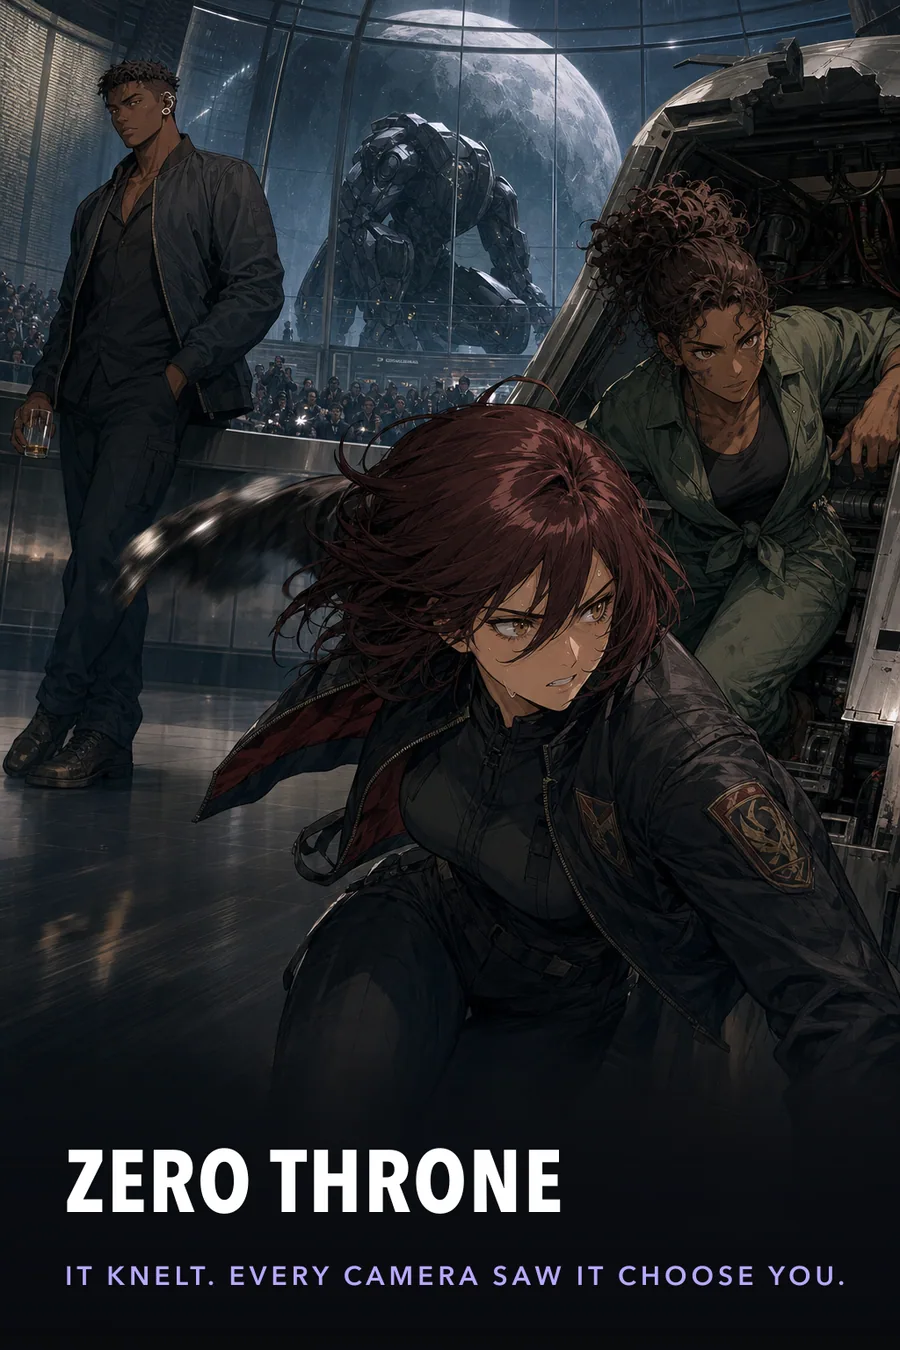
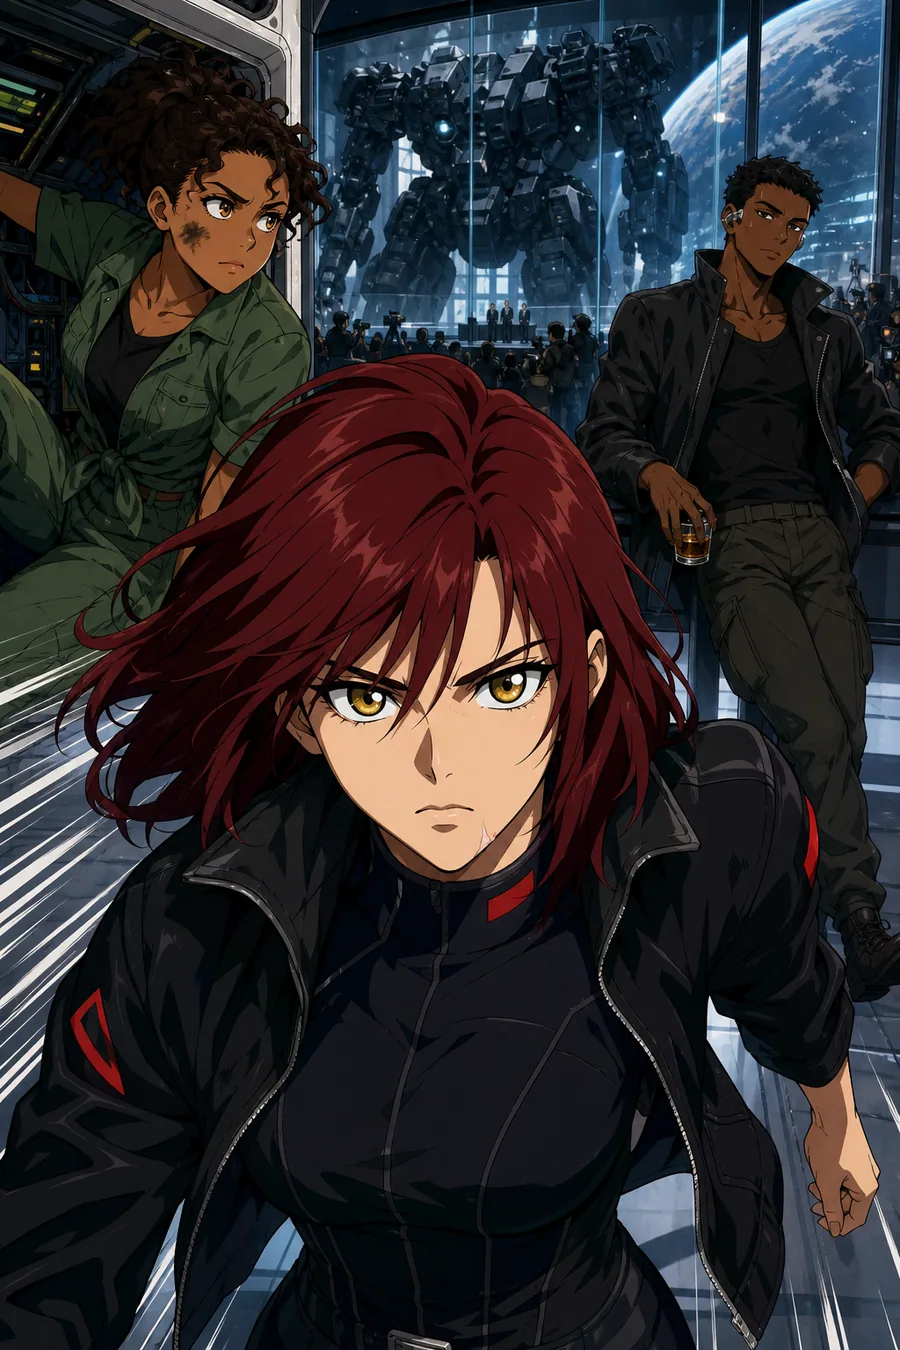
Put the ten covers back, and stop walking the catalogue a query at a time
Two separate things, both found by putting the app on a real phone.

**The covers.** Merging `stories/four-new-worlds` reverted ten covers to the
old direction — purple subtext, dark realistic rendering, characters small in
frame — which is exactly the art that was regenerated away from. My check
before the merge was wrong: I saw the file sizes shrink and read it as a
re-optimisation, when the branch was overwriting main's regenerated art with
older renders. The manifest is the tell — it still says
`styleVersion: plotbreak-cover-v3-anime` for every one of them, so the files
and their own metadata disagreed.

Restored from `2424efb`, the last commit before the merge. Audited the rest of
that merge file by file: everything else it touched was pure addition (Pink
Tide's fixture, its expression synonyms, a checkpoint doc). Only the covers
were lost, and only these ten.

**`MEDIA_EPOCH`.** A cover URL is versioned by the *story* version, which moves
when the fiction changes. Art regenerated in place does not move it, so the URL
stays byte-identical and every device holding a copy keeps the old picture —
which is what a phone that had already loaded them did. Bump `MEDIA_EPOCH` and
every cached copy misses at once.

**The lag.** Discover, search, and the related strip under a story each walked
the catalogue calling `getSignals` one world at a time, inside `for … await`,
so the round trips ran end to end: twenty-two worlds, twenty-two sequential
[…]

diff --git a/services/api/src/server.ts b/services/api/src/server.ts
@@ -59,6 +59,7 @@ import { deriveCustomBuildWithModel } from '@aniplay/director';
 import { availableCategories, categoriesFor, searchCatalog } from './catalog-taxonomy.js';
 import { registerMediaRoutes } from './media-routes.js';
 import type { SessionRecord, StorySignals } from './repo/types.js';
+import { EMPTY_SIGNALS } from './repo/types.js';
 
 /**
  * Spec §33 — the `/v1` surface.
@@ -260,12 +261,16 @@ export function buildServer(options: BuildServerOptions = {}): FastifyInstance &
       ? allStories.filter((story) => categoriesFor(story).includes(category))
       : allStories;
 
-    const entries: RankedEntry[] = [];
-    for (const story of stories) {
-      if (hidden.includes(story.storyId)) continue;
-      const signals = await ctx.repo.getSignals(story.storyId);
-      entries.push({ summary: toStorySummary(story, signals, saved.includes(story.storyId)), signals });
-    }
+    // One query for every world's signals rather than one per world. This was
+    // `for … await getSignals(...)`, so the round trips ran end to end and the
+    // response grew a full database round trip for every world added.
+    const visible = stories.filter((story) => !hidden.includes(story.storyId));
+    const signalsById = await ctx.repo.getSignalsFor(visible.map((story) => story.storyId));
+
+    const entries: RankedEntry[] = visible.map((story) => {
+      const signals = signalsById.get(story.storyId) ?? EMPTY_SIGNALS;
+      return { summary: toStorySummary(story, signals, saved.includes(story.storyId)), signals };
+    });
 
     const ranked = rankStories(entries);
     const rails: DiscoverRail[] = [];
@@ -363,12 +368,13 @@ export function buildServer(options: BuildServerOptions = {}): FastifyInstance &
     const hits = searchCatalog(stories, query);
     const order = new Map(hits.map((hit, index) => [hit.storyId, index]));
 
-    const results: RankedEntry[] = [];
-    for (const story of stories) {
-      if (!order.has(story.storyId)) continue;
-      const signals = await ctx.repo.getSignals(story.storyId);
-      results.push({ summary: toStorySummary(story, signals, saved.includes(story.storyId)), signals });
-    }
+    const matched = stories.filter((story) => order.has(story.storyId));
+    const searchSignals = await ctx.repo.getSignalsFor(matched.map((story) => story.storyId));
+
+    const results: RankedEntry[] = matched.map((story) => {
+      const signals = searchSignals.get(story.storyId) ?? EMPTY_SIGNALS;
+      return { summary: toStorySummary(story, signals, saved.includes(story.storyId)), signals };
+    });
 
     // An empty query is a browse, so it ranks by the catalog's own signals. A
     // real query ranks by how well it matched, which the signals must not
@@ -396,13 +402,17 @@ export function buildServer(options: BuildServerOptions = {}): FastifyInstance &
     // just reported and hid was still being offered two taps later.
     const hidden = user ? await ctx.repo.getHidden(user.userId) : [];
 
-    const related: StorySummary[] = [];
-    for (const other of await ctx.repo.listStories()) {
-      if (other.storyId === story.storyId) continue;
-      if (hidden.includes(other.storyId)) continue;
-      const otherSignals = await ctx.repo.getSignals(other.storyId);
-      related.push(toStorySummary(other, otherSignals, saved.includes(other.storyId)));
-    }
+    // Opening one world walked the whole catalogue a query at a time to build
+    // the related strip underneath it, which is why tapping a card felt slow
+    // in a way that had nothing to do with the card.
+    const others = (await ctx.repo.listStories()).filter(
+      (other) => other.storyId !== story.storyId && !hidden.includes(other.storyId),
+    );
+    const relatedSignals = await ctx.repo.getSignalsFor(others.map((other) => other.storyId));
+
+    const related: StorySummary[] = others.map((other) =>
+      toStorySummary(other, relatedSignals.get(other.storyId) ?? EMPTY_SIGNALS, saved.includes(other.storyId)),
+    );
 
     const activeSession = user
       ? (await ctx.repo.listSessions(user.userId)).find(

diff --git a/services/api/src/repo/postgres.ts b/services/api/src/repo/postgres.ts
@@ -15,6 +15,7 @@ import type {
   StorySignals,
   UserRecord,
 } from './types.js';
+import { EMPTY_SIGNALS } from './types.js';
 
 /**
  * The production persistence adapter (spec §34, §35).
@@ -43,15 +44,6 @@ import type {
 
 /** How far back a player can fork. Matches MemoryRepository. */
 const MAX_SNAPSHOTS = 60;
-
-const EMPTY_SIGNALS: StorySignals = {
-  runs: 0,
-  likes: 0,
-  saves: 0,
-  hides: 0,
-  reports: 0,
-  impressions: 0,
-};
 
 export interface PostgresRepositoryOptions {
   readonly connectionString: string;
@@ -161,6 +153,23 @@ export class PostgresRepository implements Repository {
       [storyId],
     );
     return rows[0] ?? { ...EMPTY_SIGNALS };
+  }
+
+  async getSignalsFor(storyIds: readonly string[]): Promise<Map<string, StorySignals>> {
+    const found = new Map<string, StorySignals>();
+    if (storyIds.length === 0) return found;
+    const { rows } = await this.#pool.query<StorySignals & { story_id: string }>(
+      `SELECT story_id, runs, likes, saves, hides, reports, impressions
+         FROM story_signals WHERE story_id = ANY($1)`,
+      [[...storyIds]],
+    );
+    for (const row of rows) {
+      const { story_id, ...signals } = row;
+      found.set(story_id, signals);
+    }
+    // A world nobody has touched yet has no row, and must still answer.
+    for (const id of storyIds) if (!found.has(id)) found.set(id, { ...EMPTY_SIGNALS });
+    return found;
   }
 
   async bumpSignal(storyId: string, key: keyof StorySignals, delta: number): Promise<void> {

diff --git a/services/api/src/repo/types.ts b/services/api/src/repo/types.ts
@@ -91,12 +91,34 @@ export interface StorySignals {
   impressions: number;
 }
 
+/** A world nobody has touched yet. One definition, shared by every repository. */
+export const EMPTY_SIGNALS: StorySignals = {
+  runs: 0,
+  likes: 0,
+  saves: 0,
+  hides: 0,
+  reports: 0,
+  impressions: 0,
+};
+
 export interface Repository {
   // --- Catalog ---
   listStories(): Promise<StoryVersion[]>;
   getStoryVersion(storyVersionId: string): Promise<StoryVersion | null>;
   getStoryByStoryId(storyId: string): Promise<StoryVersion | null>;
   getSignals(storyId: string): Promise<StorySignals>;
+  /**
+   * Signals for many worlds at once.
+   *
+   * Discover, search and the related-worlds strip each walked the catalogue
+   * calling `getSignals` one story at a time, inside `for … await`, so the
+   * round trips were sequential: twenty-three worlds meant twenty-three of
+   * them end to end. Against a database on the other side of the country that
+   * is most of a three-second response; against one in the same rack it is
+   * still twenty-three times more than the one query this needs, and it grows
+   * with the catalogue.
+   */
+  getSignalsFor(storyIds: readonly string[]): Promise<Map<string, StorySignals>>;
   bumpSignal(storyId: string, key: keyof StorySignals, delta: number): Promise<void>;
 
   // --- Users ---

diff --git a/services/api/src/projections.ts b/services/api/src/projections.ts
@@ -62,7 +62,15 @@ export function resolveAssetUrl(key: string | null, version?: number): string | 
   const base = process.env.MEDIA_CDN_BASE_URL;
   if (!base) return null;
   const url = `${base.replace(/\/$/, '')}/${key}`;
-  return version === undefined ? url : `${url}?v=${version}`;
+  if (version === undefined) return url;
+  // `version` is the *story* version, which moves when the fiction changes.
+  // Art can be regenerated without the fiction moving at all — a new cover
+  // direction over an unchanged world — and then the URL is byte-identical and
+  // every device that has already fetched it keeps the old picture forever.
+  // `MEDIA_EPOCH` is the knob for exactly that: bump it when art is
+  // regenerated in place, and every cached copy is missed at once.
+  const epoch = process.env.MEDIA_EPOCH;
+  return epoch ? `${url}?v=${version}&e=${epoch}` : `${url}?v=${version}`;
 }
 
 /** Plain-language attribute copy for the World Sheet (spec §11.2). */

diff --git a/services/api/src/repo/memory.ts b/services/api/src/repo/memory.ts
@@ -93,6 +93,10 @@ export class MemoryRepository implements Repository {
     );
   }
 
+  async getSignalsFor(storyIds: readonly string[]): Promise<Map<string, StorySignals>> {
+    return new Map(await Promise.all(storyIds.map(async (id) => [id, await this.getSignals(id)] as const)));
+  }
+
   async bumpSignal(storyId: string, key: keyof StorySignals, delta: number): Promise<void> {
     const signals = await this.getSignals(storyId);
     signals[key] = Math.max(0, signals[key] + delta);
